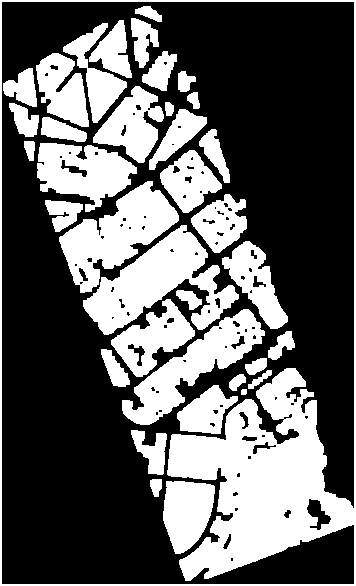
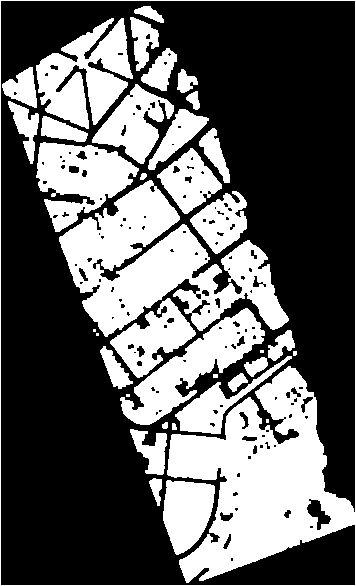
pi - projeto final

diff --git a/pi/laboratorio3/laboratorio3_Alexandre copy.py b/pi/laboratorio3/laboratorio3_Alexandre copy.py
@@ -2,7 +2,7 @@
 # Aluno: Alexandre Ferreira e Silva
 # Atividade 03
 #
-# Morfologia - para rodar o arquivo copiar a linha abaixo e mudar o diretorio
+# Morfologia
 # python3 laboratorio3.py '/home/alexandre/projetos/mestrado-unifesp/pi/laboratorio3/muros.png' 1 5 '/home/alexandre/projetos/mestrado-unifesp/pi/laboratorio3/muros_saida.png'
 # 1-erosão; 2-dilatação; 3-abertura; 4-fechamento.
 # --------------------------------------------------------------------------------------
@@ -17,12 +17,19 @@ import sys
 os.system('cls' if os.name == 'nt' else 'clear')
 
 # parametros de entrada
+'''
 arquivo = sys.argv[1]
 operacao = int(sys.argv[2])
 tamanho = int(sys.argv[3])
 arquivo_saida = sys.argv[4]
+'''
 elemento = []
 parte = 1
+
+arquivo = '/home/alexandre/projetos/mestrado-unifesp/pi/laboratorio3/muros.png'
+arquivo_saida = '/home/alexandre/projetos/mestrado-unifesp/pi/laboratorio3/muros_saida.png'
+operacao = 4
+tamanho = 5
 
 # Exibe a imagem preto e branco
 imgGray = cv2.imread(arquivo, cv2.IMREAD_GRAYSCALE)
@@ -39,7 +46,6 @@ def getParte():
     if (tamanho > 3):
         parte = int(tamanho/2)
     return parte
-
 # --------------------------------------------------------------------------------------------
 # Cria o elemento estruturante com o tamanho de entrada
 # --------------------------------------------------------------------------------------------
@@ -115,3 +121,15 @@ cv2.imwrite(arquivo_saida, imgSaida)
 cv2.imshow('Imagem Saida', imgSaida)
 cv2.waitKey(0)
 cv2.destroyAllWindows()
+
+ero = erosao(imgBW)
+dila = dilatacao(imgBW)
+abertura = dilatacao(ero)
+fechamento = erosao(dila)
+
+plt.subplot(151),plt.imshow(imgBW, cmap='gray'),plt.title('Oritinal')
+plt.subplot(152),plt.imshow(ero, cmap='gray'),plt.title('Erosao')
+plt.subplot(153),plt.imshow(dila, cmap='gray'),plt.title('Dilatacao')
+plt.subplot(154),plt.imshow(abertura, cmap='gray'),plt.title('Abertura')
+plt.subplot(155),plt.imshow(fechamento, cmap='gray'),plt.title('Fechamento')
+plt.show()
